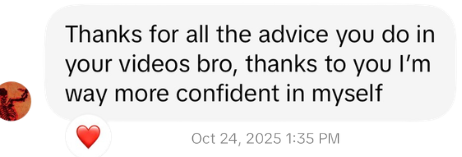
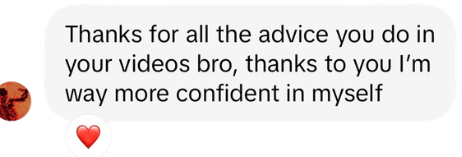
Remove timestamps from review screenshots
Claude-Session: https://claude.ai/code/session_01WogwoYdvZJvxCboscWCBXS

Changed region(s): [[0.3939, 0.8408, 0.7576, 0.9172]]

diff --git a/index.html b/index.html
@@ -131,20 +131,20 @@
         <h2 class="pc-h2">What guys tell me.</h2>
         <div class="pc-carousel" aria-roledescription="carousel" aria-label="Messages from men I've helped">
           <ul class="pc-reviews" tabindex="0">
-            <li class="pc-review"><img src="/images/reviews/r01.png" alt="Message from a man Sean helped" loading="lazy" /></li>
-            <li class="pc-review"><img src="/images/reviews/r02.png" alt="Message from a man Sean helped" loading="lazy" /></li>
-            <li class="pc-review"><img src="/images/reviews/r04.png" alt="Message from a man Sean helped" loading="lazy" /></li>
-            <li class="pc-review"><img src="/images/reviews/r05.png" alt="Message from a man Sean helped" loading="lazy" /></li>
-            <li class="pc-review"><img src="/images/reviews/r06.png" alt="Message from a man Sean helped" loading="lazy" /></li>
-            <li class="pc-review"><img src="/images/reviews/r07.png" alt="Message from a man Sean helped" loading="lazy" /></li>
-            <li class="pc-review"><img src="/images/reviews/r08.png" alt="Message from a man Sean helped" loading="lazy" /></li>
-            <li class="pc-review"><img src="/images/reviews/r09.png" alt="Message from a man Sean helped" loading="lazy" /></li>
-            <li class="pc-review"><img src="/images/reviews/r10.png" alt="Message from a man Sean helped" loading="lazy" /></li>
-            <li class="pc-review"><img src="/images/reviews/r11.png" alt="Message from a man Sean helped" loading="lazy" /></li>
-            <li class="pc-review"><img src="/images/reviews/r12.png" alt="Message from a man Sean helped" loading="lazy" /></li>
-            <li class="pc-review"><img src="/images/reviews/r13.png" alt="Message from a man Sean helped" loading="lazy" /></li>
-            <li class="pc-review"><img src="/images/reviews/r03.png" alt="Message from a man Sean helped" loading="lazy" /></li>
-            <li class="pc-review"><img src="/images/reviews/r14.png" alt="Message from a man Sean helped" loading="lazy" /></li>
+            <li class="pc-review"><img src="/images/reviews/r01.png?v=2" alt="Message from a man Sean helped" loading="lazy" /></li>
+            <li class="pc-review"><img src="/images/reviews/r02.png?v=2" alt="Message from a man Sean helped" loading="lazy" /></li>
+            <li class="pc-review"><img src="/images/reviews/r04.png?v=2" alt="Message from a man Sean helped" loading="lazy" /></li>
+            <li class="pc-review"><img src="/images/reviews/r05.png?v=2" alt="Message from a man Sean helped" loading="lazy" /></li>
+            <li class="pc-review"><img src="/images/reviews/r06.png?v=2" alt="Message from a man Sean helped" loading="lazy" /></li>
+            <li class="pc-review"><img src="/images/reviews/r07.png?v=2" alt="Message from a man Sean helped" loading="lazy" /></li>
+            <li class="pc-review"><img src="/images/reviews/r08.png?v=2" alt="Message from a man Sean helped" loading="lazy" /></li>
+            <li class="pc-review"><img src="/images/reviews/r09.png?v=2" alt="Message from a man Sean helped" loading="lazy" /></li>
+            <li class="pc-review"><img src="/images/reviews/r10.png?v=2" alt="Message from a man Sean helped" loading="lazy" /></li>
+            <li class="pc-review"><img src="/images/reviews/r11.png?v=2" alt="Message from a man Sean helped" loading="lazy" /></li>
+            <li class="pc-review"><img src="/images/reviews/r12.png?v=2" alt="Message from a man Sean helped" loading="lazy" /></li>
+            <li class="pc-review"><img src="/images/reviews/r13.png?v=2" alt="Message from a man Sean helped" loading="lazy" /></li>
+            <li class="pc-review"><img src="/images/reviews/r03.png?v=2" alt="Message from a man Sean helped" loading="lazy" /></li>
+            <li class="pc-review"><img src="/images/reviews/r14.png?v=2" alt="Message from a man Sean helped" loading="lazy" /></li>
           </ul>
           <div class="pc-carousel-nav">
             <button type="button" class="pc-arrow pc-prev" aria-label="Previous message">&#8249;</button>
